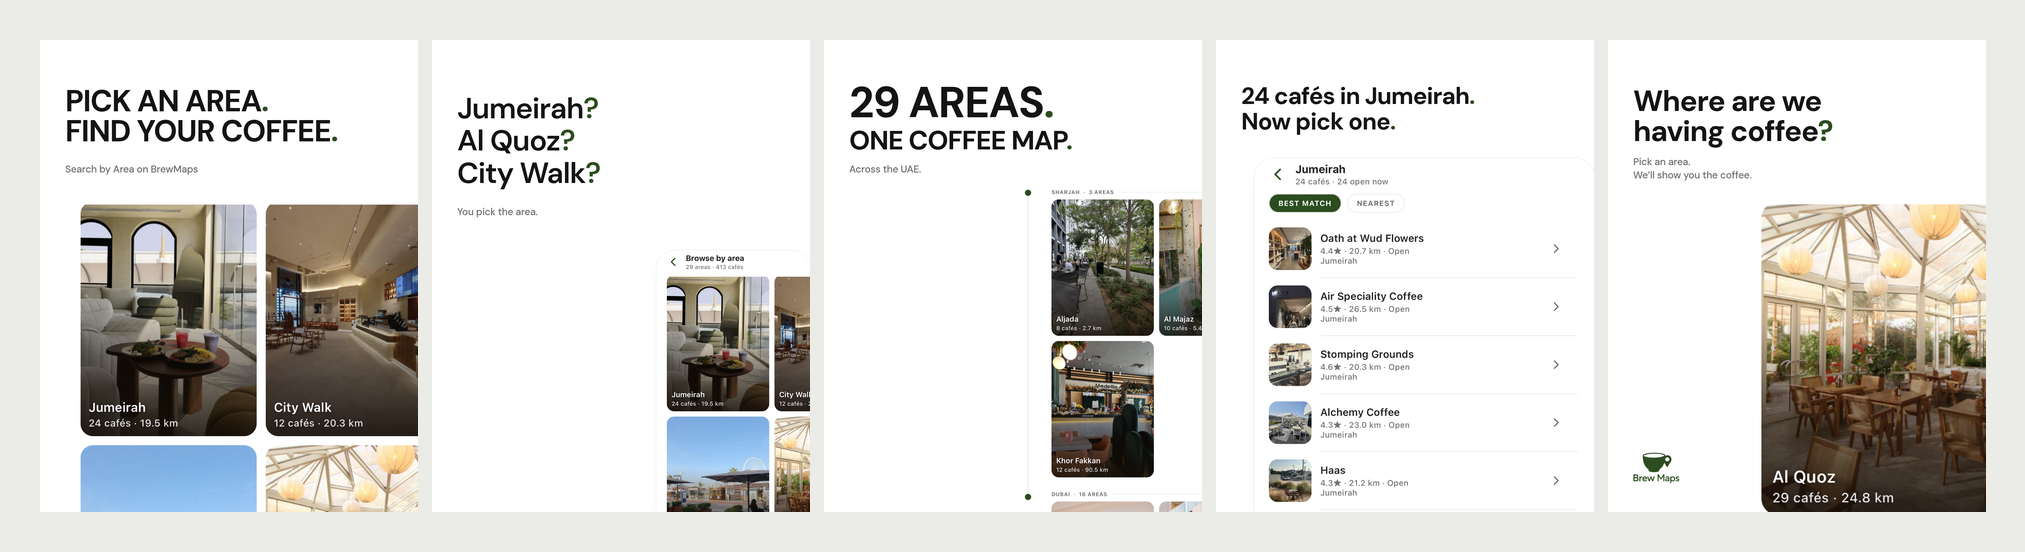
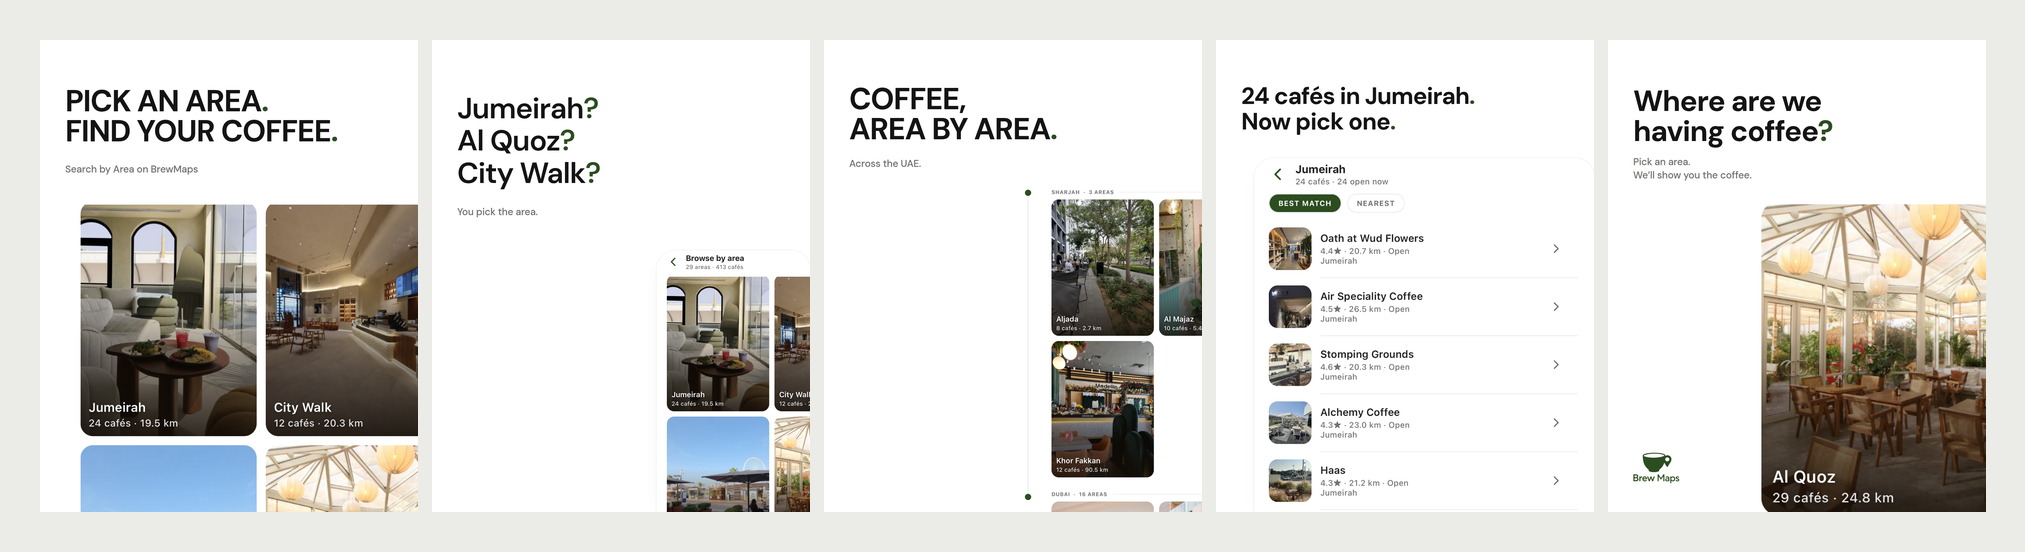
Carousel slide 3: headline to COFFEE, AREA BY AREA.
Claude-Session: https://claude.ai/code/session_01UCKVHF8Bj15Neb29ir5cAN

Changed region(s): [[0.4044, 0.154, 0.5289, 0.308]]

diff --git a/marketing/instagram/search-by-area/source/slide-3.html b/marketing/instagram/search-by-area/source/slide-3.html
@@ -1,7 +1,6 @@
 <link rel="stylesheet" href="slides.css">
-<h1 class="abs" style="left:72px;top:120px;font-size:124px;line-height:0.95;">29 AREAS<span class="g">.</span></h1>
-<h1 class="abs" style="left:72px;top:250px;font-size:76px;line-height:1;">ONE COFFEE MAP<span class="g">.</span></h1>
-<div class="abs sub" style="left:72px;top:352px;">Across the UAE.</div>
+<h1 class="abs" style="left:72px;top:126px;font-size:86px;">COFFEE,<br>AREA BY AREA<span class="g">.</span></h1>
+<div class="abs sub" style="left:72px;top:336px;">Across the UAE.</div>
 <!-- Narrow column of the emirate-grouped screen: Sharjah header, Aljada, Khor Fakkan, Dubai header, Deira top -->
 <div class="shot" style="left:620px;top:420px;width:460px;height:930px;--s:0.5;--x:0;--y:560;"><img src="src/browse-sharjah.png"></div>
 <div class="abs" style="left:582px;top:436px;width:2px;height:880px;background:var(--hair);"></div>
